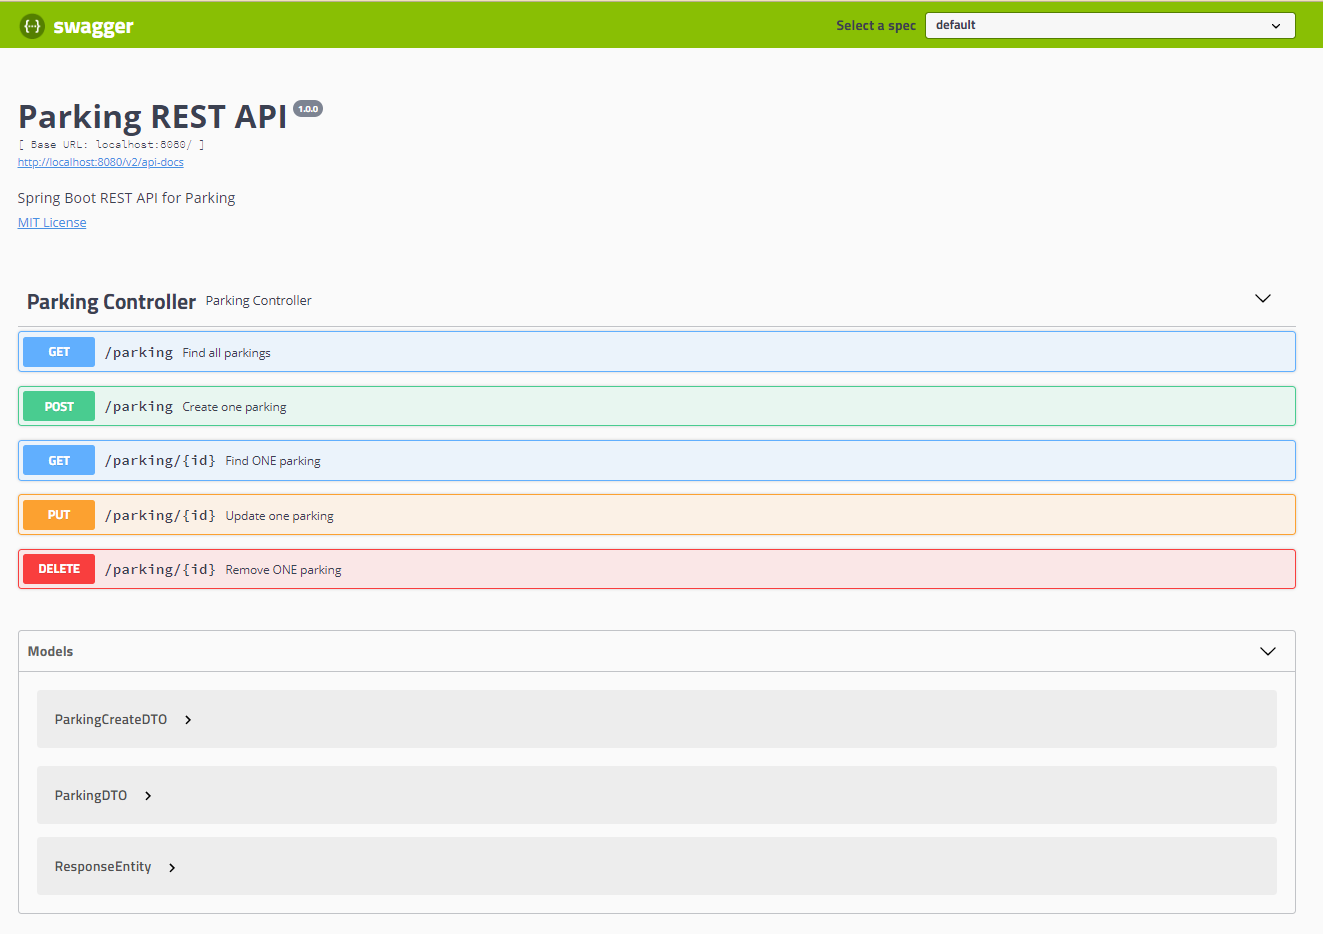
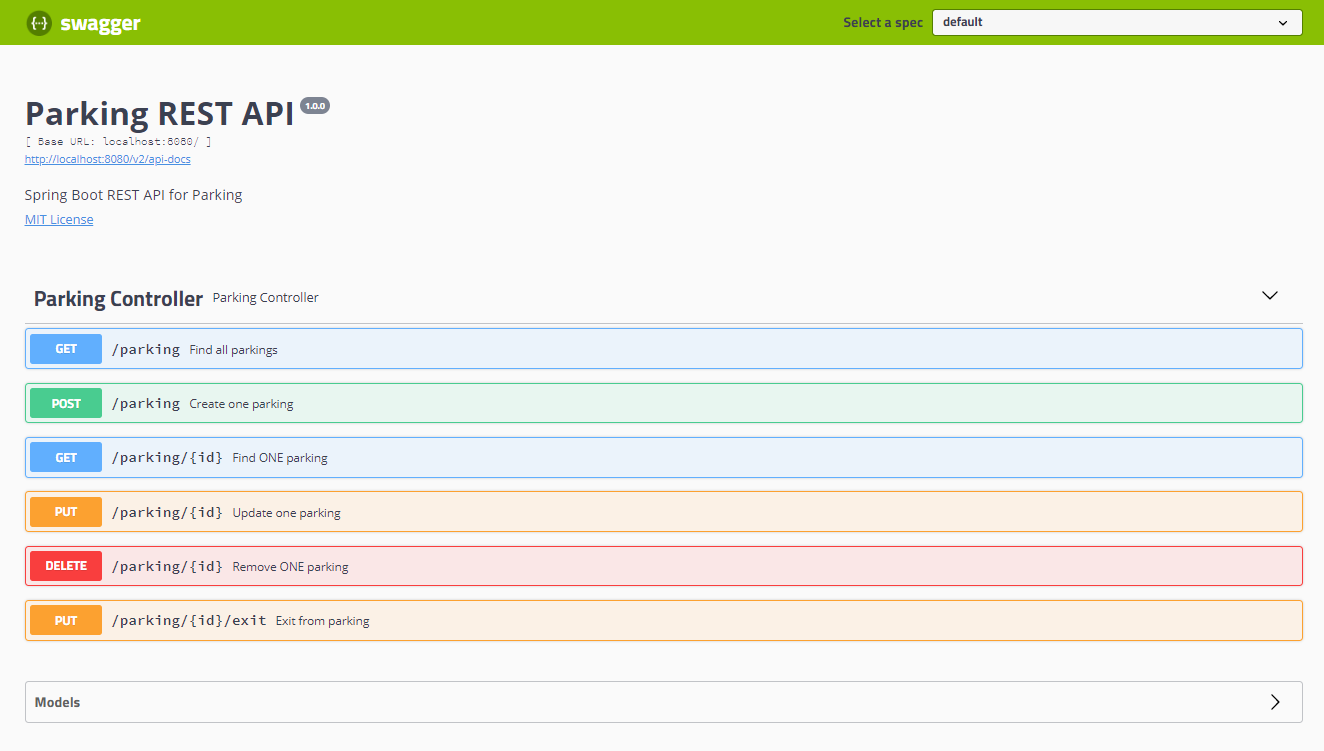
Exit from parking

Changed region(s): [[0.0, 0.0919, 0.9917, 0.8575], [0.0, 0.0, 1.0, 0.0613], [0.0, 0.9188, 0.124, 0.9494]]

diff --git a/cloud-parking/src/main/java/one/digitalinnovation/parking/service/ParkingCheckOut.java b/cloud-parking/src/main/java/one/digitalinnovation/parking/service/ParkingCheckOut.java
@@ -1,0 +1,41 @@
+package one.digitalinnovation.parking.service;
+
+import java.time.LocalDateTime;
+import java.time.temporal.ChronoUnit;
+
+import one.digitalinnovation.parking.model.Parking;
+
+public class ParkingCheckOut {
+
+    public static final int ONE_HOUR = 60;
+    public static final int TWENTY_FOUR_HOUR = 24 * ONE_HOUR;
+    public static final double ONE_HOUR_VALUE = 5.00;
+    public static final double ADDITIONAL_PER_HOUR_VALUE = 2.00;
+    public static final double DAY_VALUE = 20.00;
+
+    public static Double getBill(Parking parking) {
+        return getBill(parking.getEntryDate(), parking.getExitDate());
+    }
+
+    private static Double getBill(LocalDateTime entryDate, LocalDateTime exitDate) {
+        long minutes = entryDate.until(exitDate, ChronoUnit.MINUTES);
+        Double bill = 0.0;
+        if (minutes <= ONE_HOUR) {
+            return ONE_HOUR_VALUE;
+        }
+        if (minutes <= TWENTY_FOUR_HOUR) {
+            bill = ONE_HOUR_VALUE;
+            int hours = (int) (minutes / ONE_HOUR);
+            for (int i = 0; i < hours; i++) {
+                bill += ADDITIONAL_PER_HOUR_VALUE;
+            }
+            return bill;
+        }
+        int days = (int) (minutes / TWENTY_FOUR_HOUR);
+        for (int i = 0; i < days; i++) {
+            bill += DAY_VALUE;
+        }
+        return bill;
+    }
+}
+

diff --git a/cloud-parking/src/main/java/one/digitalinnovation/parking/controller/ParkingController.java b/cloud-parking/src/main/java/one/digitalinnovation/parking/controller/ParkingController.java
@@ -92,5 +92,12 @@ public class ParkingController {
 		return ResponseEntity.status(HttpStatus.OK).body(result);		
 	}
 	
+	@PutMapping("/{id}/exit")
+	@ApiOperation("Exit from parking") 
+	public ResponseEntity<ParkingDTO> checkOut(@PathVariable String id) {
+	        Parking parking = parkingService.checkOut(id);
+	        return ResponseEntity.ok(parkingMapper.toParkingDTO(parking));
+	    }
+	
 
 }

diff --git a/cloud-parking/src/main/java/one/digitalinnovation/parking/service/ParkingService.java b/cloud-parking/src/main/java/one/digitalinnovation/parking/service/ParkingService.java
@@ -78,5 +78,13 @@ public class ParkingService {
 		parkingMap.replace(id, parking);
 		return parking;
 	}
+	
+	public Parking checkOut(String id) {
+        Parking parking = findById(id);
+        parking.setExitDate(LocalDateTime.now());
+        parking.setBill(ParkingCheckOut.getBill(parking));
+        parkingMap.replace(id, parking);
+        return parking;
+    }
 
 }
